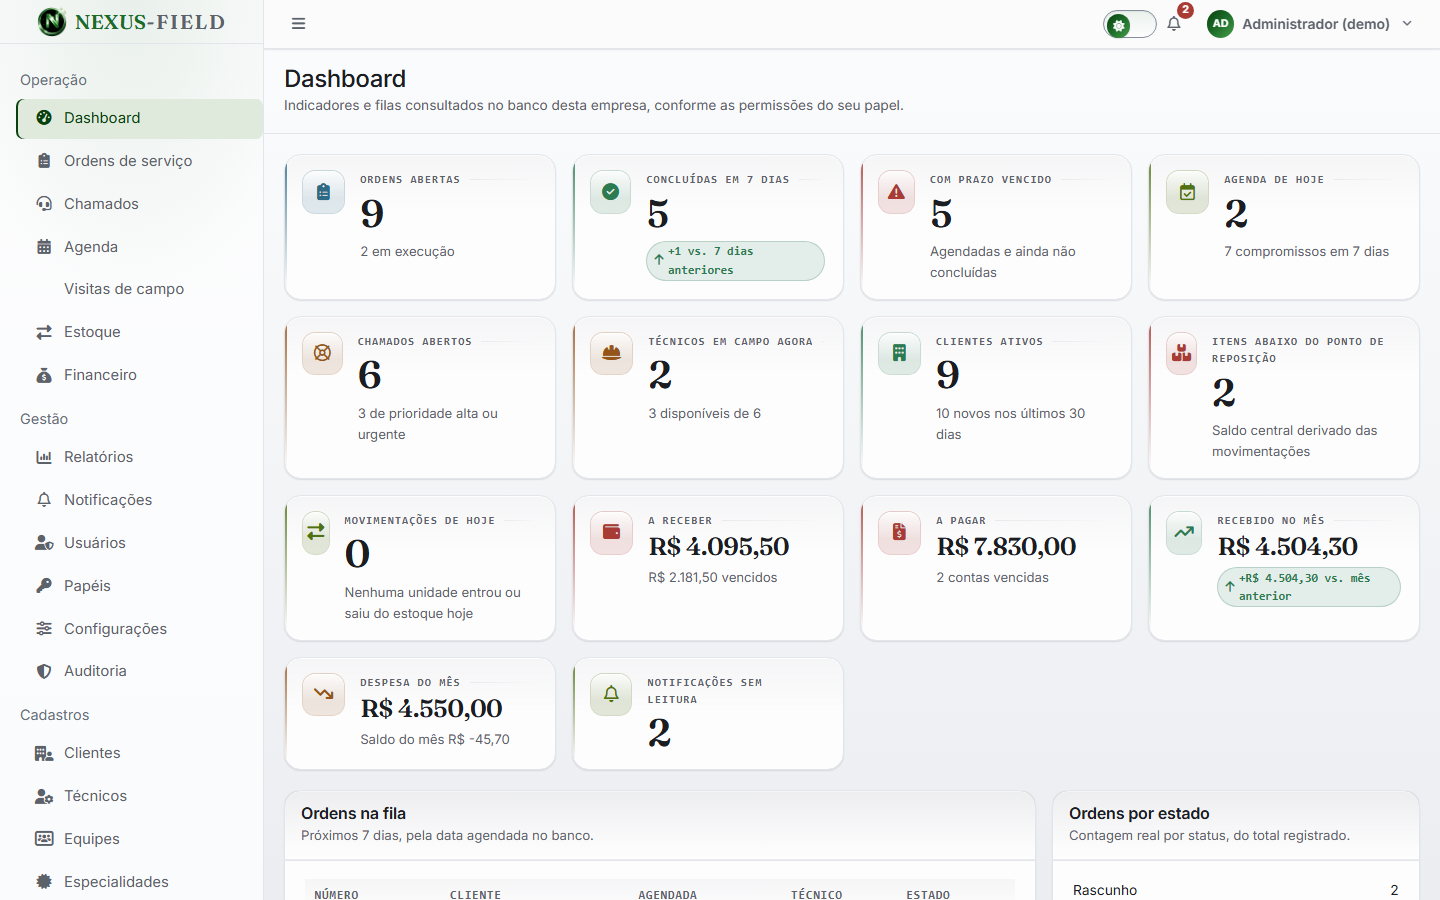
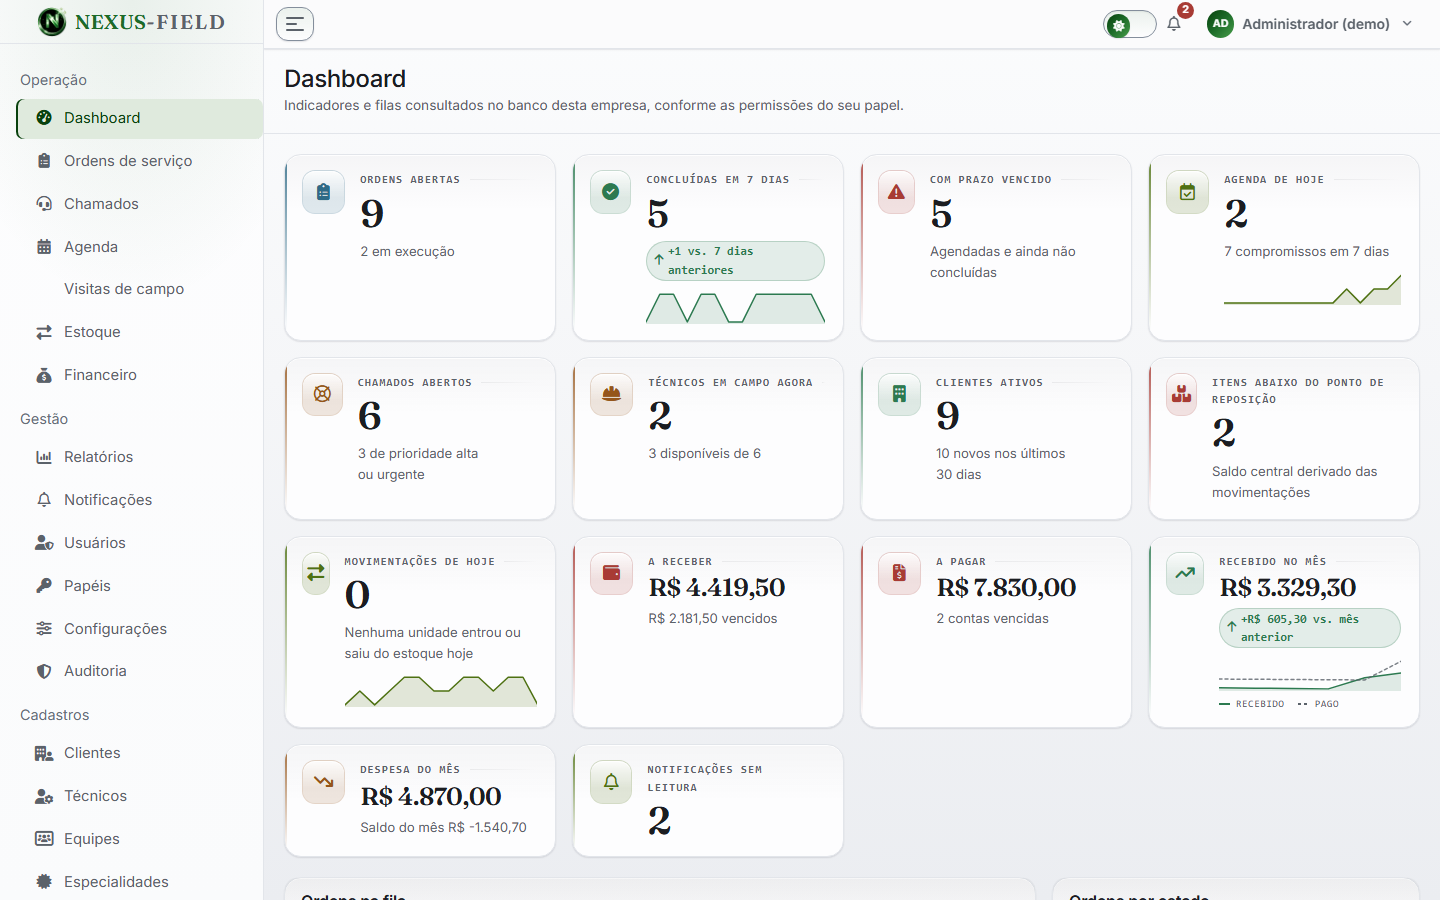
As seis telas do README voltam a mostrar a casa de agora
A vitrine do repositório estava ilustrando um aplicativo que não existe mais:
01-boas-vindas ainda tinha os dois botões que saíram do hero na fase 26 e o
ciclo de serviço morando dentro da coluna do medalhão, e as capturas do painel
predatavam a micro-visualização que a fase 23 pôs nos cartões de indicador.
`ScreenshotsTest` mede o quadro e a legenda, mas não pode ver o desenho — a
prova de tela precisava ser refeita à mão.

Como foi: um harness único pelo DevTools Protocol percorre as seis cenas na
mesma janela de 1440×900. O tema entra por cookie antes da navegação, porque o
script do <head> lê localStorage antes de qualquer outra chave e o perfil do
Chrome nasce limpo a cada execução. O painel é fotografado depois de um login
real — CSRF da mesma resposta, senha lida do .env e nunca impressa. O celular
sai do viewport verdadeiro de 390×844 e é montado sobre preto no quadro da
série, que é o que o teste exige de todas as seis.

Prova: as seis medidas no IHDR batem 1440×900, a suíte passa inteira, e o
README diz agora o que cada captura mostra de fato — a abertura sem botão no
meio e o ciclo em faixa própria.

diff --git a/README.md b/README.md
@@ -39,16 +39,17 @@ o clique abre o arquivo no tamanho capturado. O painel de celular é fotografado
 (390×844) e montado sobre o mesmo quadro de 1440×900 — é o único quadro diferente da série, e a
 legenda diz isso. Os painéis mostram a empresa de demonstração criada pelo `DemoSeeder` — é ela que
 tem ordens, chamados, financeiro e estoque para os indicadores calcularem; na empresa real sem dados,
-os mesmos blocos aparecem nos estados vazios. As capturas do painel já contam os catorze indicadores de hoje:
-o estoque acrescentou o cartão "Movimentações de hoje" e a lista "Últimas movimentações", e o
-financeiro entrou com "A receber", "A pagar", "Recebido no mês" e "Despesa do mês" — refeitas na
-rodada de prontidão de deploy, depois da última fase pousar.
+os mesmos blocos aparecem nos estados vazios. A série foi refeita depois que a fase 27 pousou, então ela
+mostra a casa como ela está hoje: a boas-vindas sem botão no meio do hero e com o ciclo de seis passos em
+faixa própria, e os catorze indicadores do painel com a micro-visualização que sai da mesma consulta do
+cartão — o "Movimentações de hoje" do estoque, e os quatro do financeiro ("A receber", "A pagar",
+"Recebido no mês" e "Despesa do mês").
 
 <div align="center">
 
 | Apresentação pública · tema claro | Entrada · tema escuro |
 | :--: | :--: |
-| <a href="docs/screenshots/01-boas-vindas.png"><img src="docs/screenshots/01-boas-vindas.png" alt="Página de apresentação pública do NEXUS-FIELD em tema claro, com a logo animada no palco do hero e o ciclo de um serviço ao lado do título" width="360"></a> | <a href="docs/screenshots/02-entrada.png"><img src="docs/screenshots/02-entrada.png" alt="Tela de entrada com e-mail, senha com botão de revelar, manter conectado e recuperação de acesso em tema escuro" width="360"></a> |
+| <a href="docs/screenshots/01-boas-vindas.png"><img src="docs/screenshots/01-boas-vindas.png" alt="Página de apresentação pública do NEXUS-FIELD em tema claro: título e parágrafos à esquerda, a logo animada no palco à direita e o ciclo de um serviço em faixa própria abaixo" width="360"></a> | <a href="docs/screenshots/02-entrada.png"><img src="docs/screenshots/02-entrada.png" alt="Tela de entrada com e-mail, senha com botão de revelar, manter conectado e recuperação de acesso em tema escuro" width="360"></a> |
 
 | Recuperação de acesso · tema claro | Painel no celular · tema escuro |
 | :--: | :--: |

diff --git a/CHANGELOG.md b/CHANGELOG.md
@@ -1126,6 +1126,13 @@ Padrão de versões: esta reconstrução parte do zero, então o baseline é `0.
   404) não pode oferecer um hífen que o quebra-linhas use como corte. A suíte fecha em 318 testes / 3050
   asserções, Pint PASS em 175 arquivos e a varredura nos mesmos 73 endereços GET — 66×200, 5×302, 1×403,
   1×404, nenhum 5xx.
+- As seis capturas do README voltaram a ser prova de tela: a série foi refeita com o hero sem os botões do
+  meio e com a esteira em faixa própria (fase 26 e 27), e com os cartões do painel carregando a
+  micro-visualização da fase 23 — as capturas antigas ainda mostravam a casa de antes. O tema entra por
+  cookie antes da navegação, o painel é fotografado depois de um login real (CSRF da mesma resposta, senha
+  lida do `.env` e nunca impressa), e o quadro do celular sai do viewport verdadeiro de 390×844 montado
+  sobre o preto dos 1440×900. `ScreenshotsTest` confere as seis medidas no IHDR, o link de cada imagem e a
+  legenda contra o que o arquivo mostra.
 
 ### Alterado
 
